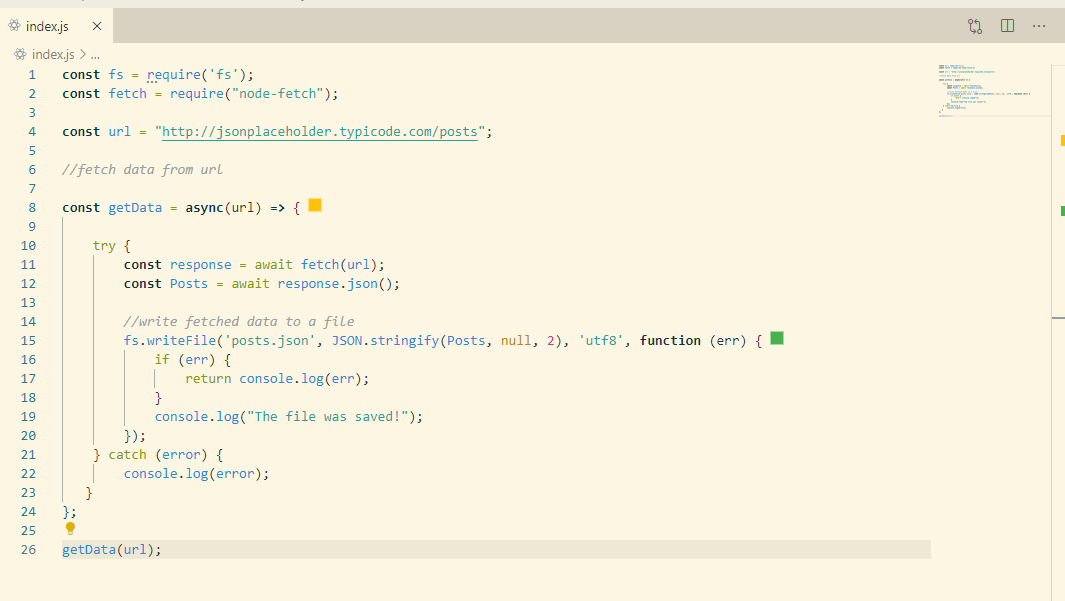
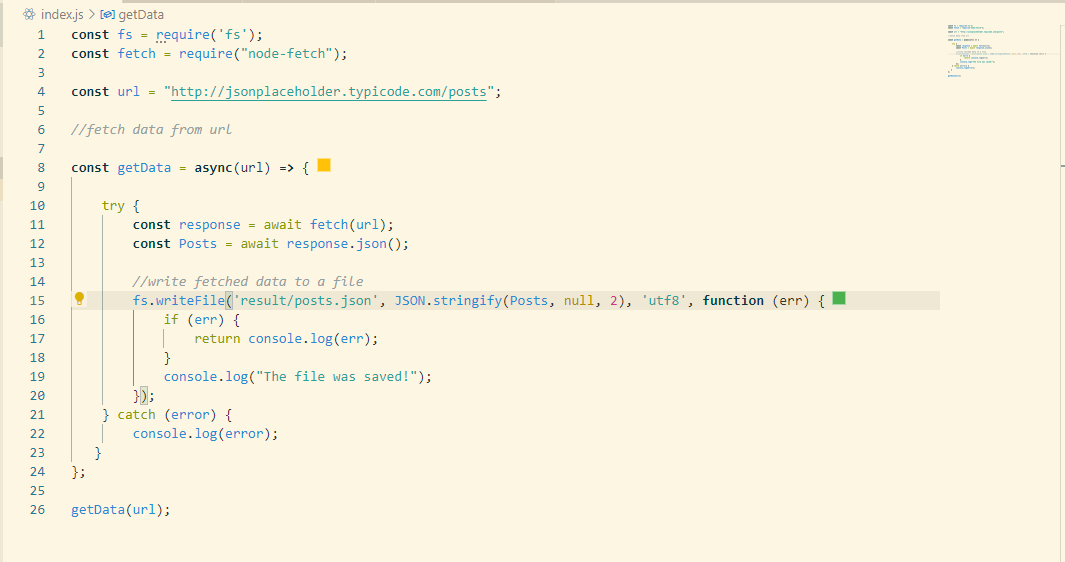
new update

Changed region(s): [[0.0, 0.2722, 0.8056, 0.9377], [0.0, 0.0, 1.0, 1.0], [0.031, 0.2117, 0.4648, 0.242]]

diff --git a/index.js b/index.js
@@ -12,7 +12,7 @@ const getData = async(url) => {
         const Posts = await response.json();
 
         //write fetched data to a file
-        fs.writeFile('posts.json', JSON.stringify(Posts, null, 2), 'utf8', function (err) {
+        fs.writeFile('result/posts.json', JSON.stringify(Posts, null, 2), 'utf8', function (err) {
             if (err) {
                 return console.log(err);
             }
